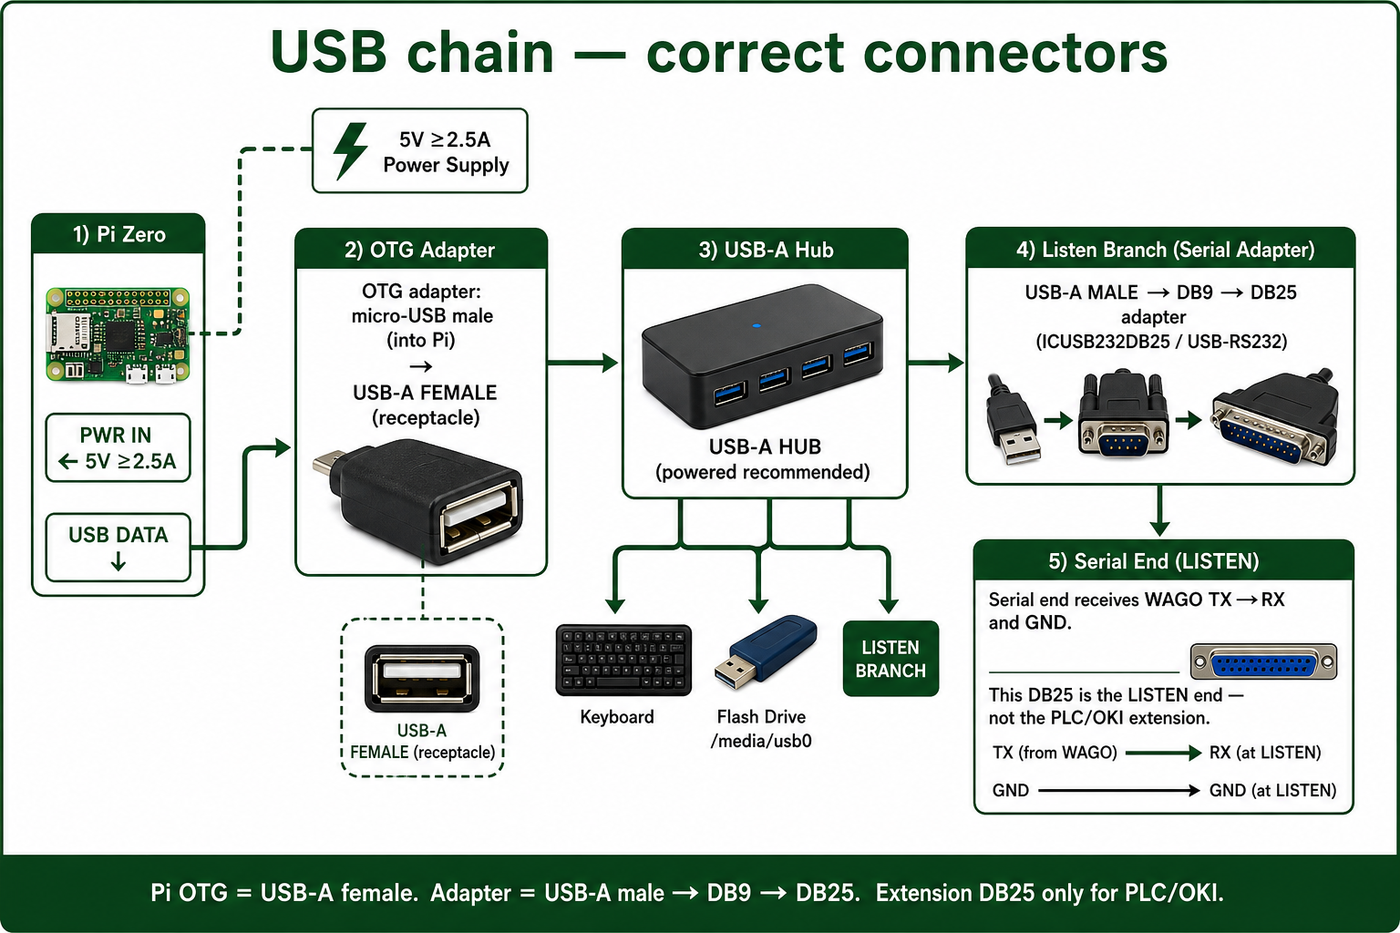
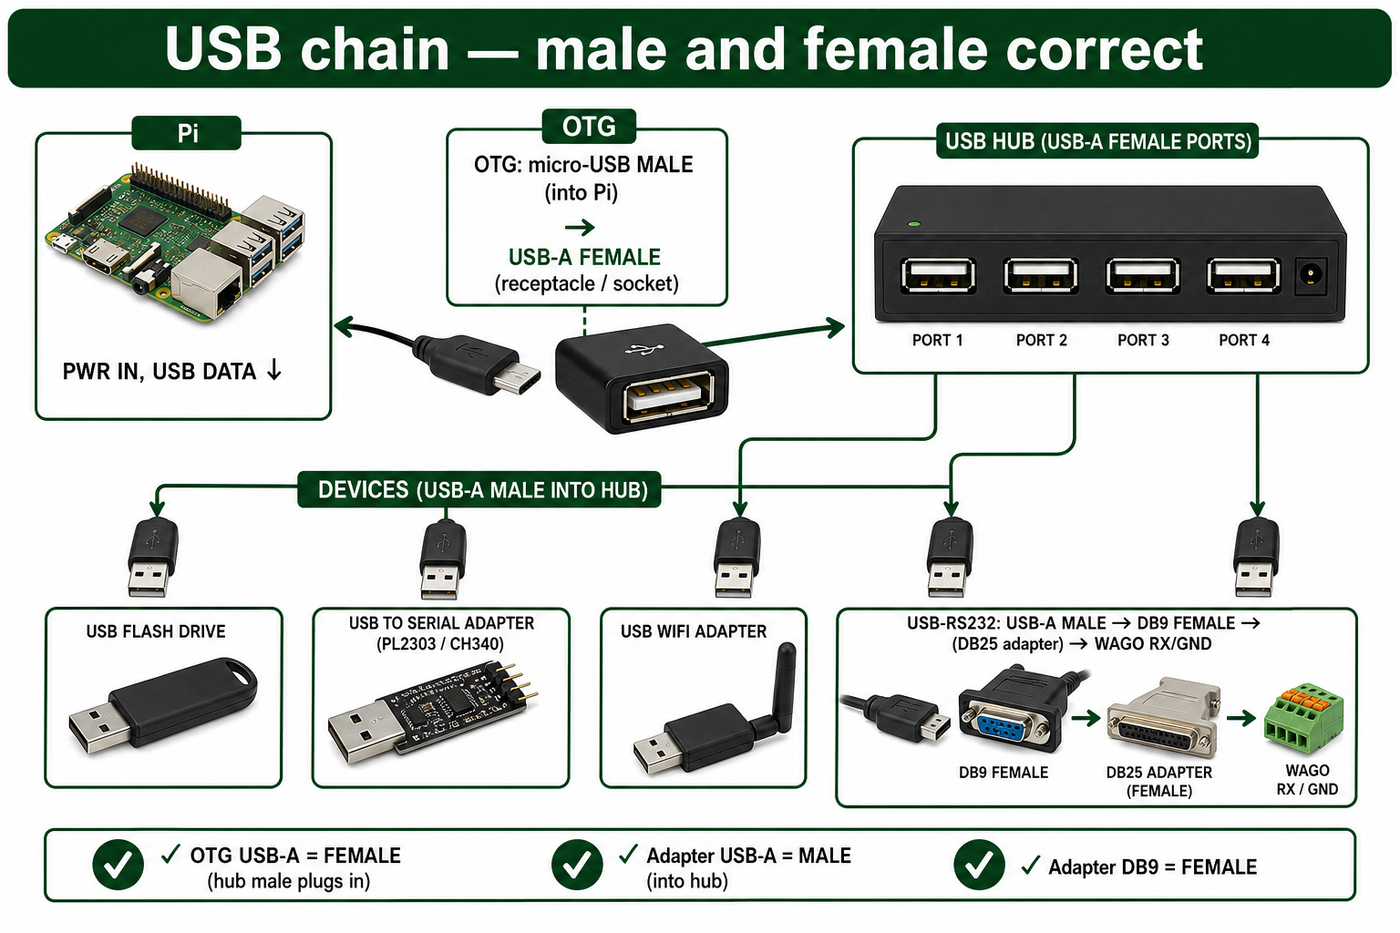
USB-diagram og tekst: OTG hunn, DB9 hunn, USB-A hann til hub

diff --git a/docs/en/wiring.md b/docs/en/wiring.md
@@ -8,8 +8,8 @@
 |------|-----------|
 | PLC and OKI | **DB25** |
 | Extension (middle) | Often a **DB9** cable with **DB25 adapters** on each end |
-| Pi listen | **USB–RS232**: USB-A **male** → DB9 → DB25 (e.g. ICUSB232DB25) |
-| Pi OTG | micro-USB (into Pi) → USB-A **female** (hub/devices plug in) |
+| Pi OTG | micro-USB **male** (into Pi) → USB-A **female** (hub male plugs in) |
+| Pi listen | USB–RS232: USB-A **male** (into hub) → DB9 **female** → DB25 adapter → WAGO |
 
 The signals to tap are still **DB25 pin 2 (TX)** and **pin 7 (GND)** at the PLC/printer.  
 In the DB9 middle section that maps to:
@@ -50,8 +50,11 @@ The extension’s **DB25** ends go only into the PLC and printer.
 The listen adapter is a separate branch:
 
 ```text
-WAGO (TX+GND)
-    → DB25 (listen) ← DB9 ← USB-A MALE  →  hub  →  OTG (USB-A FEMALE)  →  Pi
+Pi ── micro-USB MALE ── OTG ── USB-A FEMALE
+                                    ↑
+                              hub (USB-A FEMALE ports)
+                                    ↑
+              USB-A MALE ── USB-RS232 ── DB9 FEMALE ── DB25 adapter ── WAGO
 ```
 
 | From WAGO | To listen adapter (serial end) |
@@ -59,8 +62,7 @@ WAGO (TX+GND)
 | TX (DB25 pin 2 / DB9 pin 3) | **RX** |
 | GND (DB25 pin 7 / DB9 pin 5) | **GND** |
 
-TX → RX — never TX to TX. USB-A **male** into the hub → `/dev/ttyUSB0`.  
-Pi OTG is micro-USB → USB-A **female** (not a male–male cable).
+TX → RX — never TX to TX. → `/dev/ttyUSB0`.
 
 Secure the splice in the cable tray. Never leave a WAGO hanging loose.
 

diff --git a/docs/no/wiring.md b/docs/no/wiring.md
@@ -8,8 +8,8 @@
 |-----|---------|
 | PLS og OKI | **DB25** |
 | Skjøtekabel (midt) | Ofte **DB9**-kabel med **DB25-adapter** i hver ende |
-| Pi-lytting | **USB–RS232**: USB-A **hann** → DB9 → DB25 (f.eks. ICUSB232DB25) |
-| Pi OTG | micro-USB (inn i Pi) → USB-A **hunn** (hub/enheter plugges inn) |
+| Pi OTG | micro-USB **hann** (inn i Pi) → USB-A **hunn** (hubens hann plugges inn) |
+| Pi-lytting | USB–RS232: USB-A **hann** (inn i hub) → DB9 **hunn** → DB25-adapter → WAGO |
 
 Signalet som skal tappes er fortsatt **DB25 pin 2 (TX)** og **pin 7 (GND)** på PLS/OKI-siden.  
 I DB9-midten tilsvarer det:
@@ -50,8 +50,11 @@ Skjøtens **DB25** går bare til PLS og skriver.
 Lytteadapteren er egen grein:
 
 ```text
-WAGO (TX+GND)
-    → DB25 (lytte) ← DB9 ← USB-A HANN  →  hub  →  OTG (USB-A HUNN)  →  Pi
+Pi ── micro-USB HANN ── OTG ── USB-A HUNN
+                                    ↑
+                              hub (USB-A HUNN-porter)
+                                    ↑
+              USB-A HANN ── USB-RS232 ── DB9 HUNN ── DB25-adapter ── WAGO
 ```
 
 | Fra WAGO | Til lytteadapter (serie-ende) |
@@ -59,8 +62,7 @@ WAGO (TX+GND)
 | TX (DB25 pin 2 / DB9 pin 3) | **RX** |
 | GND (DB25 pin 7 / DB9 pin 5) | **GND** |
 
-TX → RX — aldri TX til TX. USB-A **hann** i huben → `/dev/ttyUSB0`.  
-OTG fra Pi er micro-USB → USB-A **hunn** (ikke hann–hann-kabel).
+TX → RX — aldri TX til TX. → `/dev/ttyUSB0`.
 
 Fest skjøten i kabelrenna. La aldri WAGO henge løst.
 

diff --git a/README.en.md b/README.en.md
@@ -150,7 +150,7 @@ Full parts list in the [installation guide](docs/en/INSTALLATION.md).
 
 <p style="font-size: 15px; margin-bottom: 0.4em"><b>1 · Passive tap</b> — see <a href="#choose-your-extension-db25-or-db9">Choose your extension</a> (image above).</p>
 
-<p style="font-size: 15px; margin-bottom: 0.4em"><b>2 · USB chain</b> — Pi OTG: micro-USB → USB-A <b>female</b>. Listen adapter: USB-A <b>male</b> → DB9 → DB25 (WAGO on serial end). Hub with keyboard + stick. PWR IN ≥2.5 A.</p>
+<p style="font-size: 15px; margin-bottom: 0.4em"><b>2 · USB chain</b> — OTG: micro-USB <b>male</b> → USB-A <b>female</b> (hub plugs in). Listen adapter: USB-A <b>male</b> → DB9 <b>female</b> → DB25 → WAGO. Hub + keyboard + stick. PWR IN ≥2.5 A.</p>
 <img src="docs/en/img/usb-chain-complete.png" width="100%" alt="USB chain with WAGO and ICUSB232DB25"/>
 
 <p style="font-size: 15px; margin-bottom: 0.4em"><b>3 · OLED (optional)</b> — 0.96" SSD1306 I2C, four wires. Rotates day/year, last package, sort mix.</p>
